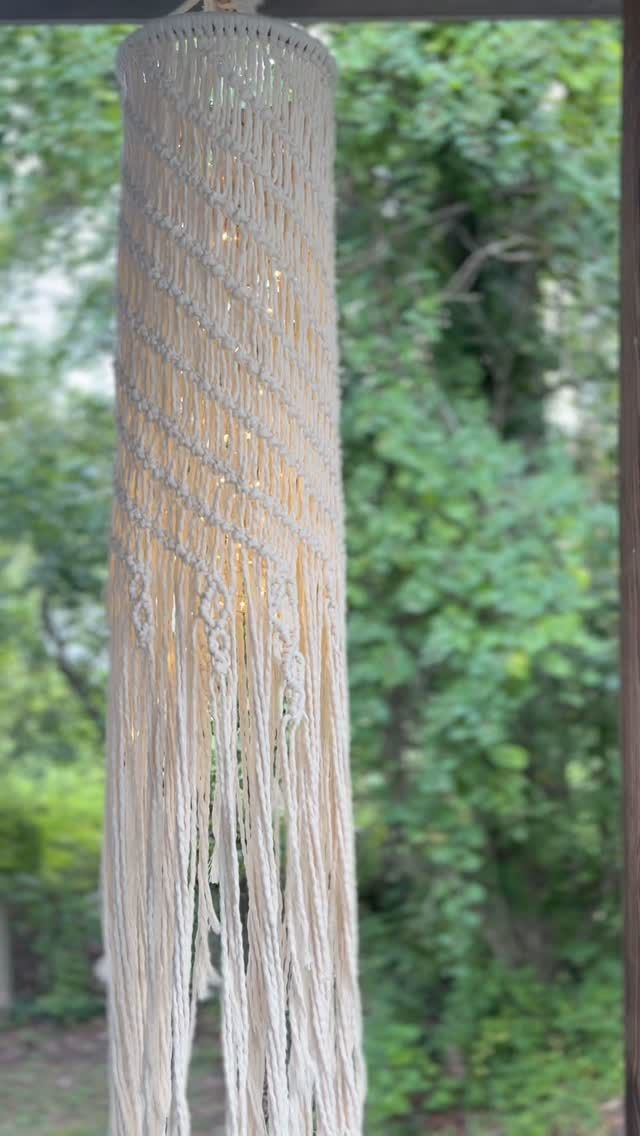
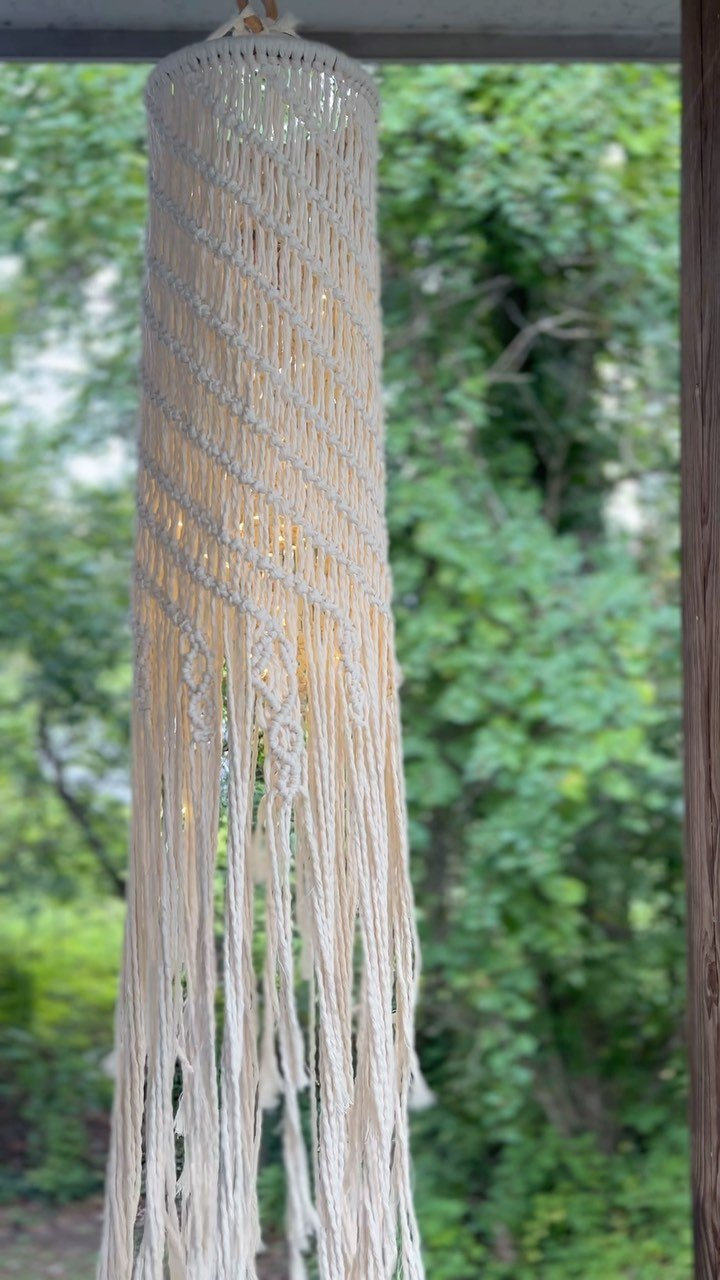
Amber: lantern by the trees on the Handmade tile, sharper

diff --git a/peek/amber/index.html b/peek/amber/index.html
@@ -726,7 +726,7 @@
           <div class="item-go"><span data-show="crone all"><button type="button" class="bk-go add" data-id="cardigan"><span class="add-t">Add to bag</span><span class="vh">: L.L.Bean blue cable knit cardigan</span></button></span></div></div>
       </article>
       <article class="item reveal" data-kind="handmade" data-model="aa" data-id="light">
-        <figure class="photo"><img src="images/light-garden.jpg" alt="A long cream macrame lantern in front of green trees" width="640" height="1136" loading="lazy" style="object-position:50% 30%"></figure>
+        <figure class="photo"><img src="images/light-garden.jpg" alt="A long cream macrame lantern in front of green trees" width="720" height="1280" loading="lazy" style="object-position:50% 30%"></figure>
         <div class="item-body"><p class="item-kind"><b>Always available</b> <span aria-hidden="true">&middot;</span> made to order, ships in about a week</p><h3>Whimsical macrame lantern</h3><p class="item-note">A soft, dreamy glow for a cozy corner.</p><p class="price"><span class="ph">your price</span></p>
           <div class="item-go"><span data-show="crone all"><button type="button" class="bk-go add" data-id="light"><span class="add-t">Add to bag</span><span class="vh">: Whimsical macrame lantern</span></button></span><span data-show="mother" hidden><button type="button" class="bk-go ghost ask" data-name="the whimsical macrame lantern">Ask about this<span class="vh">: Whimsical macrame lantern</span></button></span><span data-show="maiden" hidden><a class="bk-go ghost" href="https://www.instagram.com/nueberd/" target="_blank" rel="noopener">DM to buy<span class="vh"> Whimsical macrame lantern (opens Instagram in a new tab)</span></a></span></div></div>
       </article>
@@ -749,7 +749,7 @@
     <p class="hint ask-hint" role="status" data-show="mother" hidden></p>
 
     <div class="cats">
-      <a class="cat reveal" href="#handmade"><figure class="photo"><img src="images/light-sun.jpg" alt="" width="1080" height="1350" loading="lazy" style="object-position:50% 40%"></figure><span class="cat-k">Nueberd</span><b>Shop handmade <span aria-hidden="true">&rarr;</span></b><span class="cat-p">Earrings, a brass choker, macrame lanterns and tiny spoons</span></a>
+      <a class="cat reveal" href="#handmade"><figure class="photo"><img src="images/light-garden.jpg" alt="" width="720" height="1280" loading="lazy" style="object-position:50% 35%"></figure><span class="cat-k">Nueberd</span><b>Shop handmade <span aria-hidden="true">&rarr;</span></b><span class="cat-p">Earrings, a brass choker, macrame lanterns and tiny spoons</span></a>
       <a class="cat reveal" href="#thrifted"><figure class="photo"><img src="images/teapot.jpg" alt="" width="900" height="1125" loading="lazy" style="object-position:50% 70%"></figure><span class="cat-k">My Thrifting Era</span><b>Shop thrifted <span aria-hidden="true">&rarr;</span></b><span class="cat-p">Cozy knits, vintage nightgowns, linen and the odd beaded gown</span></a>
     </div>
     <ul class="trust">
@@ -887,7 +887,7 @@
           <div class="item-go"><span data-show="crone all"><button type="button" class="bk-go add" data-id="spoon"><span class="add-t">Add to bag</span><span class="vh">: Tiny wooden spoon</span></button></span><span data-show="mother" hidden><button type="button" class="bk-go ghost ask" data-name="a tiny spoon">Ask about these<span class="vh">: Tiny wooden spoon</span></button></span><span data-show="maiden" hidden><a class="bk-go ghost" href="https://www.instagram.com/nueberd/" target="_blank" rel="noopener">DM to buy<span class="vh"> Tiny wooden spoon (opens Instagram in a new tab)</span></a></span></div></div>
       </article>
       <article class="item reveal" data-kind="handmade" data-model="aa" data-id="light">
-        <figure class="photo"><img src="images/light-garden.jpg" alt="A long cream macrame lantern in front of green trees" width="640" height="1136" loading="lazy" style="object-position:50% 30%"></figure>
+        <figure class="photo"><img src="images/light-garden.jpg" alt="A long cream macrame lantern in front of green trees" width="720" height="1280" loading="lazy" style="object-position:50% 30%"></figure>
         <div class="item-body"><p class="item-kind"><b>Always available</b> <span aria-hidden="true">&middot;</span> made to order, ships in about a week</p><h3>Whimsical macrame lantern</h3><p class="item-note">A soft, dreamy glow for a cozy corner.</p><p class="price"><span class="ph">your price</span></p>
           <div class="item-go"><span data-show="crone all"><button type="button" class="bk-go add" data-id="light"><span class="add-t">Add to bag</span><span class="vh">: Whimsical macrame lantern</span></button></span><span data-show="mother" hidden><button type="button" class="bk-go ghost ask" data-name="the whimsical macrame lantern">Ask about this<span class="vh">: Whimsical macrame lantern</span></button></span><span data-show="maiden" hidden><a class="bk-go ghost" href="https://www.instagram.com/nueberd/" target="_blank" rel="noopener">DM to buy<span class="vh"> Whimsical macrame lantern (opens Instagram in a new tab)</span></a></span></div></div>
       </article>
